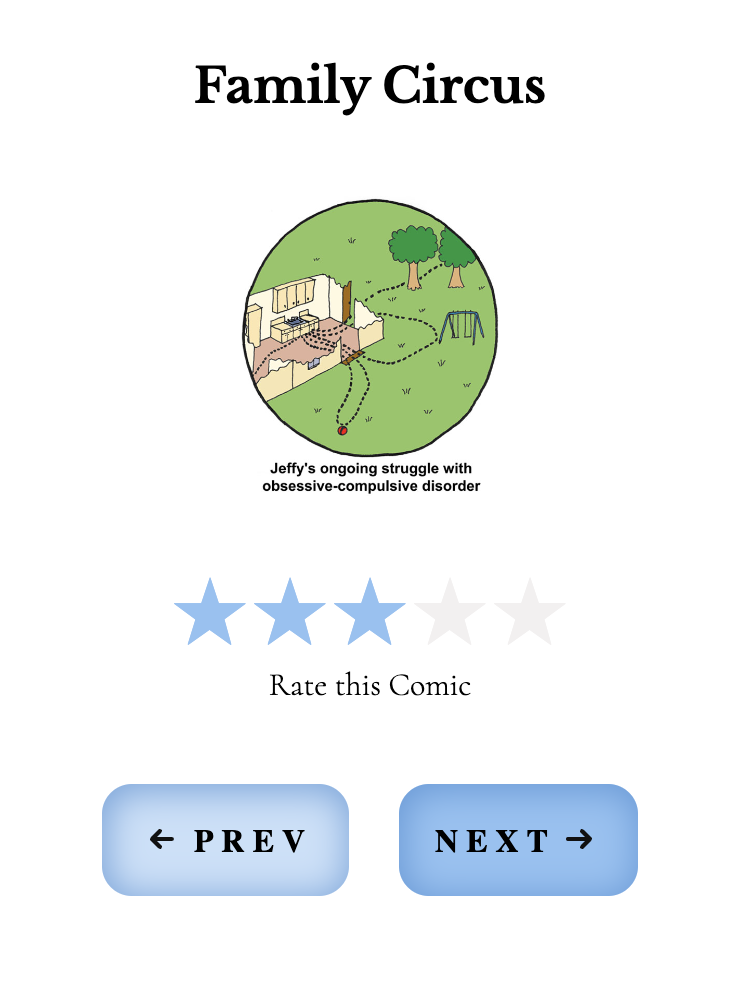
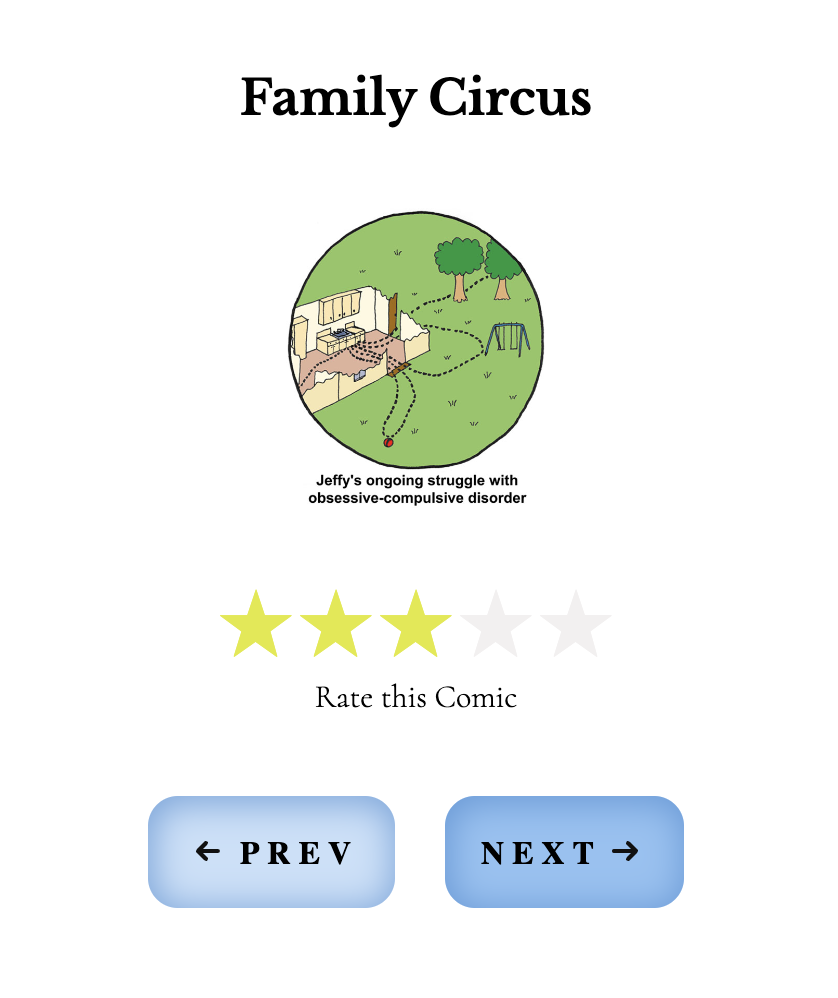
chore: update readme and include mouseover

diff --git a/src/components/StarRating.vue b/src/components/StarRating.vue
@@ -4,7 +4,9 @@
       v-for="star in maxRating"
       :key="star"
       @click="setRating(star)"
-      :class="{ active: star <= currentRating }"
+      @mouseover="hoverRating(star)"
+      @mouseleave="resetHoverRating"
+      :class="{ active: star <= currentRating || star <= hoveredRating }"
     >
       ★
     </span>
@@ -26,9 +28,20 @@ export default defineComponent({
     },
   },
   emits: ['update:currentRating'],
+  data() {
+    return {
+      hoveredRating: 0,
+    };
+  },
   methods: {
     setRating(rating) {
       this.$emit('update:currentRating', rating);
+    },
+    hoverRating(rating) {
+      this.hoveredRating = rating;
+    },
+    resetHoverRating() {
+      this.hoveredRating = 0;
     },
   },
 });
@@ -48,6 +61,6 @@ export default defineComponent({
 }
 
 .star-rating-container .active {
-  color: #90C2F3;
+  color: #E2E832;
 }
 </style>

diff --git a/src/assets/main.css b/src/assets/main.css
@@ -30,10 +30,15 @@
 
 #app {
   max-width: var(--app-container-max-width);
+  height: 100vh;
   margin: 0 auto;
   display: flex;
   justify-content: center;
   align-items: center;
+
+body {
+  margin: 0;
+}
 
   @media (max-width: 767px) {
     max-width: var(--app-container-mobile-max-width);

diff --git a/src/__tests__/app.spec.ts b/src/__tests__/app.spec.ts
@@ -21,4 +21,5 @@ describe('App Component - renders ComicViewer component', () => {
 
     expect(wrapper.findComponent(ComicViewer).exists()).toBe(true);
   });
+  expect(wrapper.findComponent(ComicViewer).exists()).toBe(false);
 });

diff --git a/xkcd-comic-app.md b/xkcd-comic-app.md
@@ -68,9 +68,9 @@
 
 
 ## Conclusions
-One of the first challenges I encountered was determining which API to use and how to allow the comic to be changed. The project's shared link included two different API links, one referencing all comics and another for a specific one. After careful consideration, I decided which one to use and also defined the structure for my project. My goal was to adhere to best practices and use technologies that I am most familiar with, those that I consider most suitable for this type of project.
+A significant challenge was dealing with CORS issues. Previously, I had only experienced this in local environments and could temporarily resolve it with browser settings or an extension. However, in this case, I needed to find a definitive solution for both local and production environments. I spent time reading extensive documentation and watching videos until I grasped the possible solutions. Ultimately, I configured a proxy in my Vite configuration file to grant legitimacy to requests and inform the browser that this request should come from the development server and is a valid request. For the production environment, I created a redirection rule through a '_redirects' file.
 
-An interesting aspect was imagining and defining the user interface design. Unlike other projects where I often work with predefined designs, this time I had the freedom to imagine and create it from scratch. This allowed me to express my personal style and preferences.
+Additionally, another challenge arose when determining which API to use and how to allow comic switching. The shared project link included two different API endpoints, one referencing all comics and another for a specific one. After careful consideration, I decided which one to use and also defined the structure for my project. My goal was to adhere to best practices and use technologies I am most familiar with, those that I consider most suitable for this type of project
 
 ## References
 
